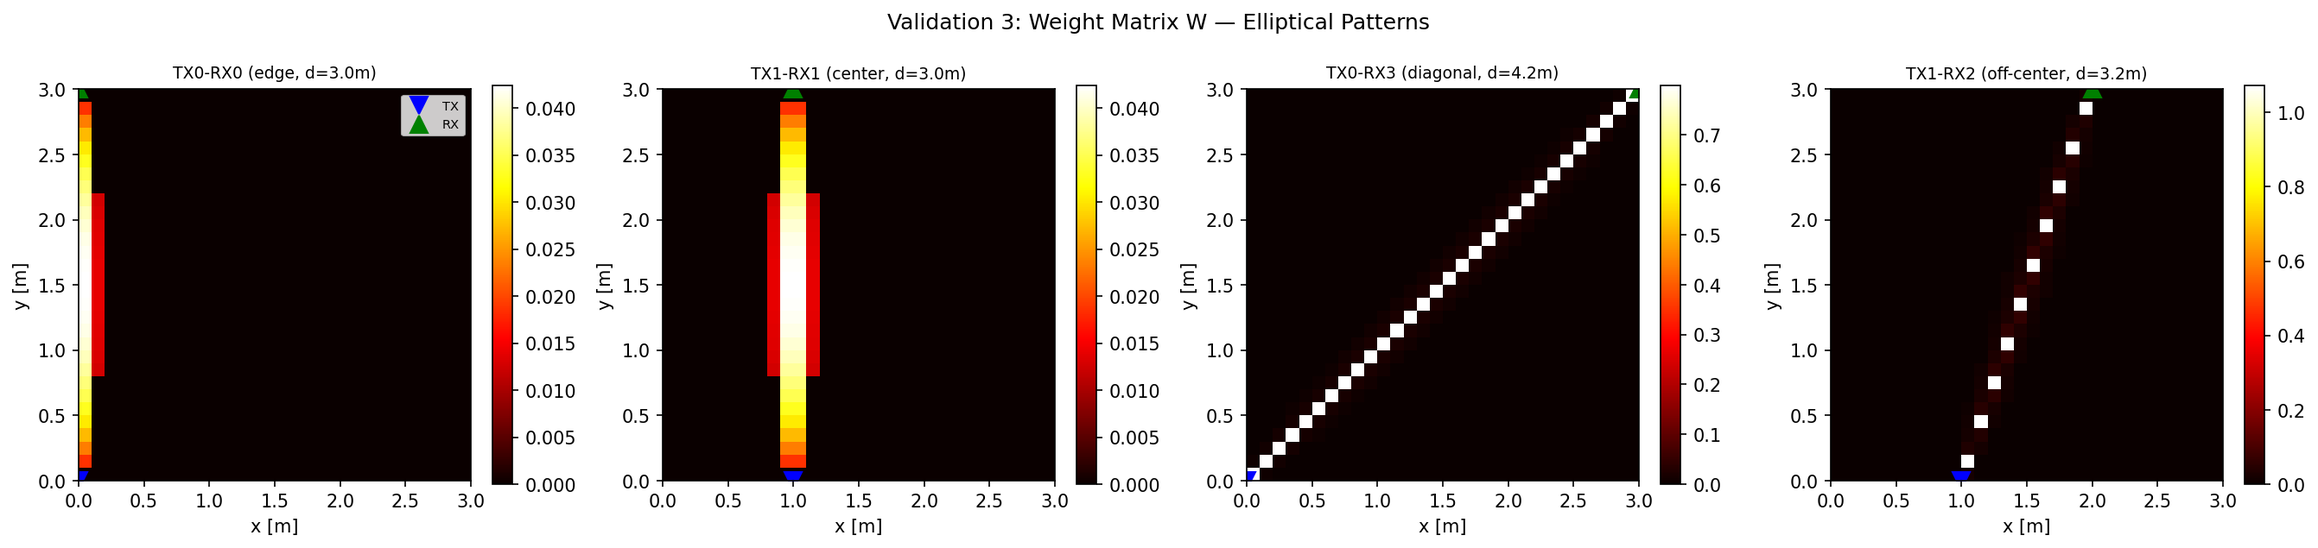
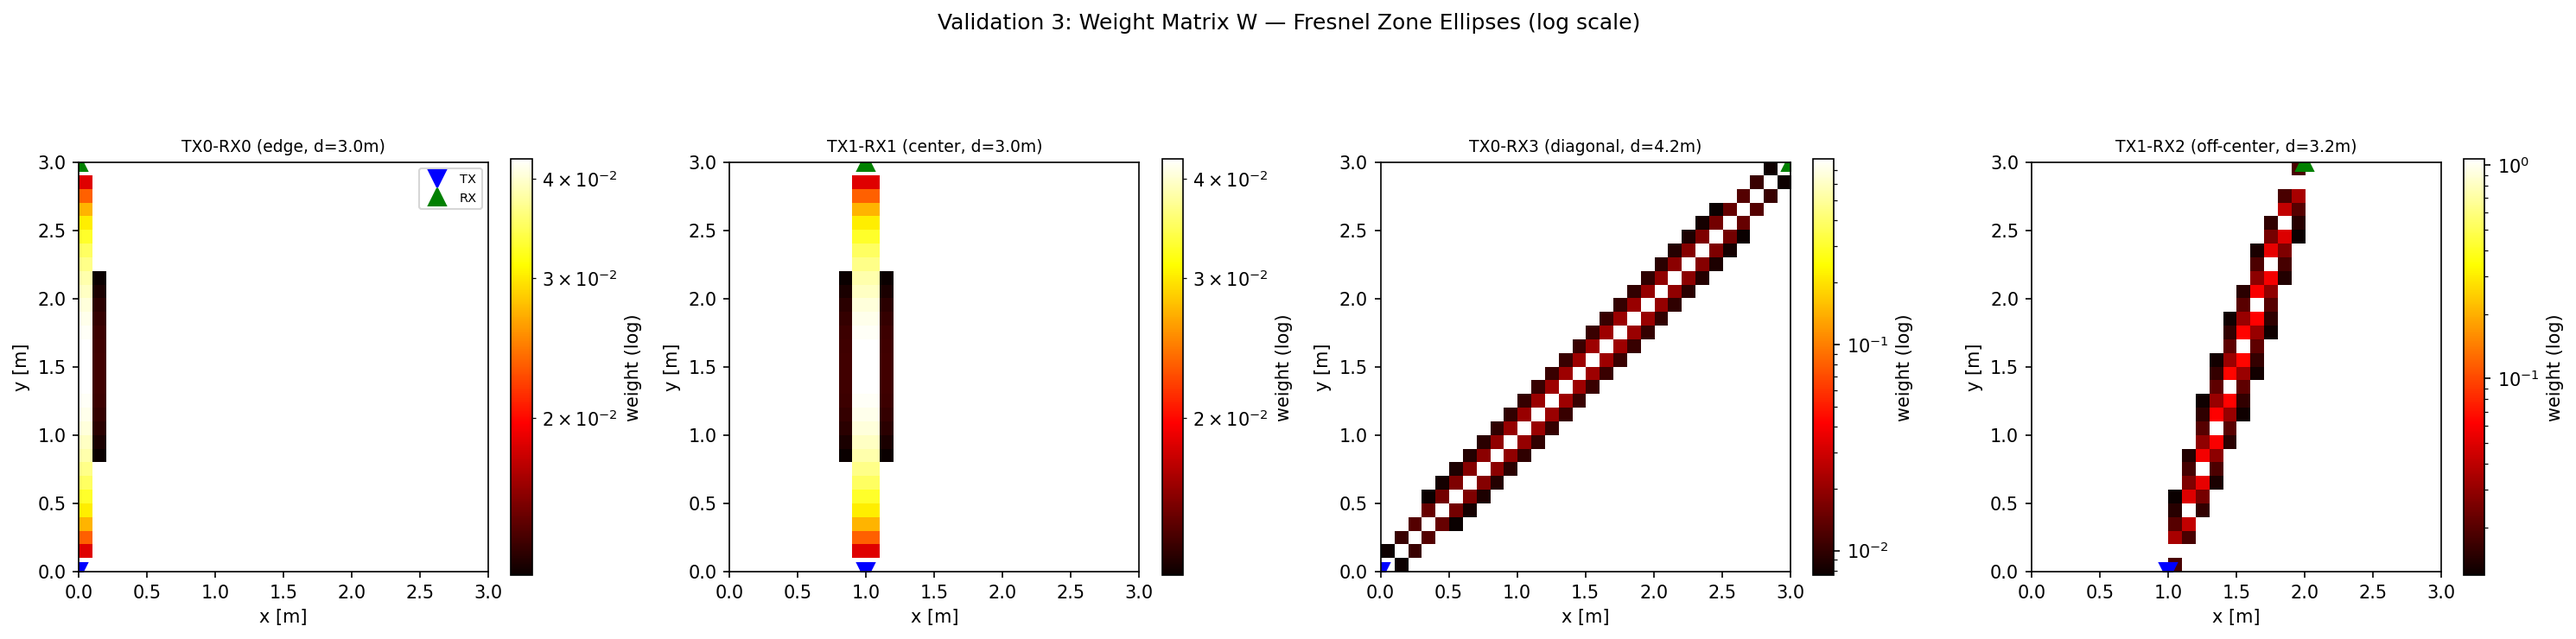
Fix weight matrix visualization: use log scale to reveal Fresnel zone
The diagonal and off-center link weight vectors had correct values but
the 40:1 dynamic range between LOS pixels (beta_min clamp) and Fresnel
zone neighbors made the zone invisible on a linear colorscale. Switch
to LogNorm and nearest-neighbor interpolation.

diff --git a/uwb_rti/validate_model.py b/uwb_rti/validate_model.py
@@ -11,6 +11,7 @@ import numpy as np
 import matplotlib
 matplotlib.use("Agg")
 import matplotlib.pyplot as plt
+from matplotlib.colors import LogNorm
 
 from uwb_rti.config import (
     TX_POSITIONS, RX_POSITIONS, PIXEL_CENTERS,
@@ -148,11 +149,15 @@ def validate_weight_matrix(W: np.ndarray, save: bool = True) -> None:
         "TX1-RX2 (off-center, d=3.2m)": 6,
     }
 
-    fig, axes = plt.subplots(1, 4, figsize=(18, 4))
+    fig, axes = plt.subplots(1, 4, figsize=(20, 5))
     for ax, (label, link_idx) in zip(axes, links.items()):
         w_img = W[link_idx].reshape(N_PIXELS_Y, N_PIXELS_X)
-        im = ax.imshow(w_img, origin="lower", extent=[0, AREA_WIDTH, 0, AREA_HEIGHT],
-                        cmap="hot", aspect="equal")
+        # Use log scale to reveal Fresnel zone structure (40:1 dynamic range)
+        w_plot = np.where(w_img > 0, w_img, np.nan)
+        vmin = np.nanmin(w_plot) if np.any(~np.isnan(w_plot)) else 1e-4
+        im = ax.imshow(w_plot, origin="lower", extent=[0, AREA_WIDTH, 0, AREA_HEIGHT],
+                        cmap="hot", aspect="equal", interpolation="nearest",
+                        norm=LogNorm(vmin=vmin, vmax=np.nanmax(w_plot)))
         # Mark TX and RX
         i, j = link_idx // N_RX, link_idx % N_RX
         ax.plot(*TX_POSITIONS[i], "bv", markersize=10, label="TX")
@@ -160,10 +165,10 @@ def validate_weight_matrix(W: np.ndarray, save: bool = True) -> None:
         ax.set_title(label, fontsize=9)
         ax.set_xlabel("x [m]")
         ax.set_ylabel("y [m]")
-        plt.colorbar(im, ax=ax, fraction=0.046)
+        plt.colorbar(im, ax=ax, fraction=0.046, label="weight (log)")
 
     axes[0].legend(loc="upper right", fontsize=7)
-    fig.suptitle("Validation 3: Weight Matrix W — Elliptical Patterns", y=1.02)
+    fig.suptitle("Validation 3: Weight Matrix W — Fresnel Zone Ellipses (log scale)", y=1.02)
     fig.tight_layout()
 
     if save:
